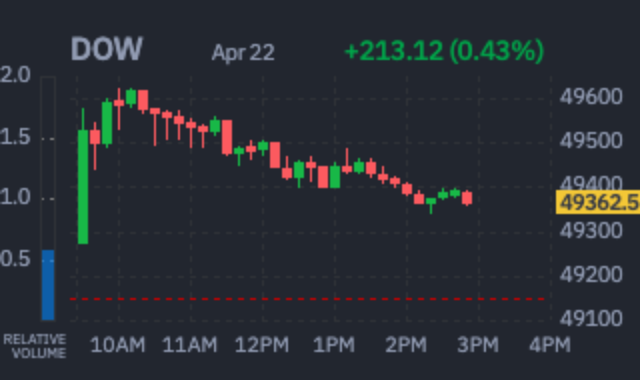
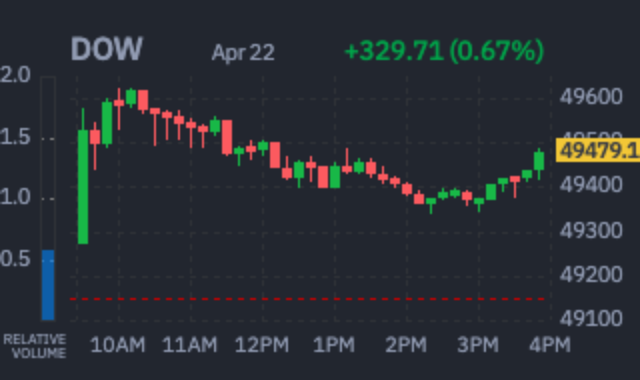
Describe your change in one short sentence

diff --git a/app/api/watchlist/route.ts b/app/api/watchlist/route.ts
@@ -26,6 +26,22 @@ function notifyUpdaterWake(): void {
     .finally(() => clearTimeout(t));
 }
 
+/** If `chart_watcher.py` wake server is configured, skip its idle wait. */
+function notifyChartWatcherWake(): void {
+  const url = process.env.CHART_WATCHER_WAKE_URL?.trim();
+  const secret = process.env.CHART_WATCHER_WAKE_SECRET?.trim();
+  if (!url || !secret) return;
+  const ac = new AbortController();
+  const t = setTimeout(() => ac.abort(), 2500);
+  void fetch(url, {
+    method: "POST",
+    headers: { Authorization: `Bearer ${secret}` },
+    signal: ac.signal,
+  })
+    .catch(() => {})
+    .finally(() => clearTimeout(t));
+}
+
 export async function GET() {
   try {
     const supabase = getSupabaseService();
@@ -63,6 +79,7 @@ export async function POST(request: NextRequest) {
       return NextResponse.json({ error: error.message }, { status: 500 });
     }
     notifyUpdaterWake();
+    notifyChartWatcherWake();
     return NextResponse.json({ ok: true, symbol: sym });
   } catch (e) {
     const message = e instanceof Error ? e.message : "Unknown error";
@@ -87,6 +104,27 @@ export async function DELETE(request: NextRequest) {
     if (error) {
       console.error("[watchlist] delete watchlist:", error.message);
       return NextResponse.json({ error: error.message }, { status: 500 });
+    }
+
+    // Delete chart images from storage (stocks/{SYMBOL}_{PERIOD}.png).
+    const periods = ["D", "W", "M"];
+    for (const period of periods) {
+      const { error: storageErr } = await supabase.storage
+        .from("charts")
+        .remove([`stocks/${sym}_${period}.png`]);
+      if (storageErr) {
+        console.error(`[watchlist] delete chart file ${sym}_${period}:`, storageErr.message);
+        return NextResponse.json({ error: storageErr.message }, { status: 500 });
+      }
+    }
+
+    const { error: metadataErr } = await supabase
+      .from("chart_metadata")
+      .delete()
+      .eq("symbol", sym);
+    if (metadataErr) {
+      console.error(`[watchlist] delete chart_metadata ${sym}:`, metadataErr.message);
+      return NextResponse.json({ error: metadataErr.message }, { status: 500 });
     }
 
     console.log(`[watchlist] deleted ${sym}`);

diff --git a/app/inside/home/page.tsx b/app/inside/home/page.tsx
@@ -1,5 +1,3 @@
-import { IndexCharts } from "@/app/inside/home/components/IndexCharts";
-
 export default function HomePage() {
   return (
     <div
@@ -9,7 +7,6 @@ export default function HomePage() {
         padding: 32,
       }}
     >
-      <IndexCharts />
       Dashboard coming soon.
     </div>
   );

diff --git a/scripts/chart_watcher.py b/scripts/chart_watcher.py
@@ -14,9 +14,11 @@ from __future__ import annotations
 import base64
 import json
 import os
+import threading
 import time
 from concurrent.futures import ThreadPoolExecutor, as_completed
 from datetime import datetime, timezone
+from http.server import BaseHTTPRequestHandler, ThreadingHTTPServer
 from pathlib import Path
 from typing import Any, Dict, List, Optional, Tuple
 from urllib.parse import quote
@@ -28,6 +30,41 @@ from playwright.sync_api import sync_playwright
 
 ROOT = Path(__file__).resolve().parent.parent
 load_dotenv(ROOT / ".env.local")
+
+_wake_event = threading.Event()
+WAKE_PORT = int(os.environ.get("CHART_WATCHER_WAKE_PORT", "9091"))
+WAKE_SECRET = os.environ.get("CHART_WATCHER_WAKE_SECRET", "")
+
+
+def start_wake_server() -> None:
+    if not WAKE_SECRET:
+        print("[chart_watcher] ⚠ no wake secret set, wake server disabled", flush=True)
+        return
+
+    class WakeHandler(BaseHTTPRequestHandler):
+        def do_POST(self) -> None:
+            if self.path != "/wake":
+                self.send_error(404)
+                return
+            auth = self.headers.get("Authorization", "")
+            if auth != f"Bearer {WAKE_SECRET}":
+                self.send_error(401)
+                return
+            _wake_event.set()
+            self.send_response(204)
+            self.end_headers()
+            print("[chart_watcher] ⚡ wake signal received", flush=True)
+
+        def log_message(self, *args: object) -> None:
+            pass
+
+    def serve() -> None:
+        server = ThreadingHTTPServer(("127.0.0.1", WAKE_PORT), WakeHandler)
+        server.serve_forever()
+
+    threading.Thread(target=serve, daemon=True, name="wake-server").start()
+    print(f"[chart_watcher] ⚡ wake server on port {WAKE_PORT}", flush=True)
+
 
 SUPABASE_URL = (
     os.environ.get("NEXT_PUBLIC_SUPABASE_URL")
@@ -238,7 +275,7 @@ def pick_symbol(watchlist: List[str], meta_by_sym: Dict[str, Dict[str, Optional[
         return None
 
     now = datetime.now(timezone.utc)
-    ttl = 10 * 60
+    ttl = 30 * 60
 
     never: List[str] = []
     stale: List[Tuple[str, datetime]] = []
@@ -382,47 +419,63 @@ def capture_index_charts() -> None:
 
 
 def main() -> None:
+    start_wake_server()
     print("[chart_watcher] 🚀 starting chart watcher", flush=True)
     print(f"[chart_watcher] Supabase: {SUPABASE_URL}", flush=True)
-    print("[chart_watcher] Index capture enabled during NYSE hours", flush=True)
+    print(
+        "[chart_watcher] 📈 captures run during NYSE hours only (Mon-Fri 9:30-16:00 ET)",
+        flush=True,
+    )
 
     last_index_capture = 0.0
     while True:
-        try:
-            watchlist = supabase_get_watchlist()
-            print(f"[chart_watcher] 📋 watchlist: {watchlist}", flush=True)
-            meta_by_sym = supabase_get_chart_metadata()
-            for sym in watchlist:
-                if sym not in meta_by_sym:
-                    print(f"[chart_watcher] 🆕 adding {sym} to chart_metadata", flush=True)
-                    supabase_upsert_chart_metadata_row(sym)
-            meta_by_sym = supabase_get_chart_metadata()
+        # Stock charts (and index charts) — only during market hours
+        if nyse_is_open():
+            try:
+                watchlist = supabase_get_watchlist()
+                print(f"[chart_watcher] 📋 watchlist: {watchlist}", flush=True)
+                meta_by_sym = supabase_get_chart_metadata()
 
-            sym = pick_symbol(watchlist, meta_by_sym)
-            if sym:
-                print(f"[chart_watcher] 📸 capturing {sym}...", flush=True)
-                process_symbol(sym)
-                print(f"[chart_watcher] ✅ {sym} done", flush=True)
-            else:
-                print("[chart_watcher] ✅ all charts fresh", flush=True)
+                for sym in watchlist:
+                    if sym not in meta_by_sym:
+                        print(f"[chart_watcher] 🆕 adding {sym} to chart_metadata", flush=True)
+                        supabase_upsert_chart_metadata_row(sym)
 
-            now = time.time()
-            if nyse_is_open():
+                meta_by_sym = supabase_get_chart_metadata()
+                sym = pick_symbol(watchlist, meta_by_sym)
+
+                if sym:
+                    print(f"[chart_watcher] 📸 capturing {sym}...", flush=True)
+                    process_symbol(sym)
+                    print(f"[chart_watcher] ✅ {sym} done", flush=True)
+                else:
+                    print("[chart_watcher] ✅ all charts fresh", flush=True)
+
+                now = time.time()
                 if now - last_index_capture >= 60:
                     try:
                         capture_index_charts()
                         last_index_capture = now
-                        print("[chart_watcher] ✅ index charts updated")
+                        print("[chart_watcher] ✅ index charts updated", flush=True)
                     except Exception as e:
-                        print(f"[chart_watcher] ❌ index capture failed: {e}")
-            else:
-                # Market closed - skip index capture entirely
-                # Reset so it captures immediately when market opens
-                last_index_capture = 0.0
-        except Exception as e:
-            print(f"[chart_watcher] error: {e}", flush=True)
+                        print(f"[chart_watcher] ❌ index capture failed: {e}", flush=True)
 
-        time.sleep(2)
+            except Exception as e:
+                print(f"[chart_watcher] error: {e}", flush=True)
+
+            # Wait up to 5 seconds OR wake immediately if signal received
+            _wake_event.wait(timeout=5)
+            _wake_event.clear()
+        else:
+            last_index_capture = 0.0
+            et = datetime.now(ET)
+            print(
+                f"[chart_watcher] 🌙 NYSE closed "
+                f"({et.strftime('%a %H:%M %Z')}) — sleeping",
+                flush=True,
+            )
+            time.sleep(60)
+            continue
 
 
 if __name__ == "__main__":
